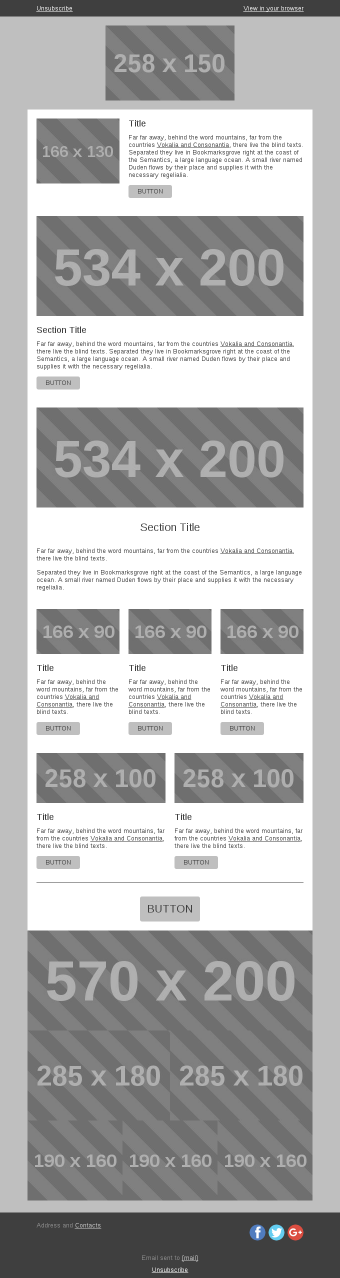
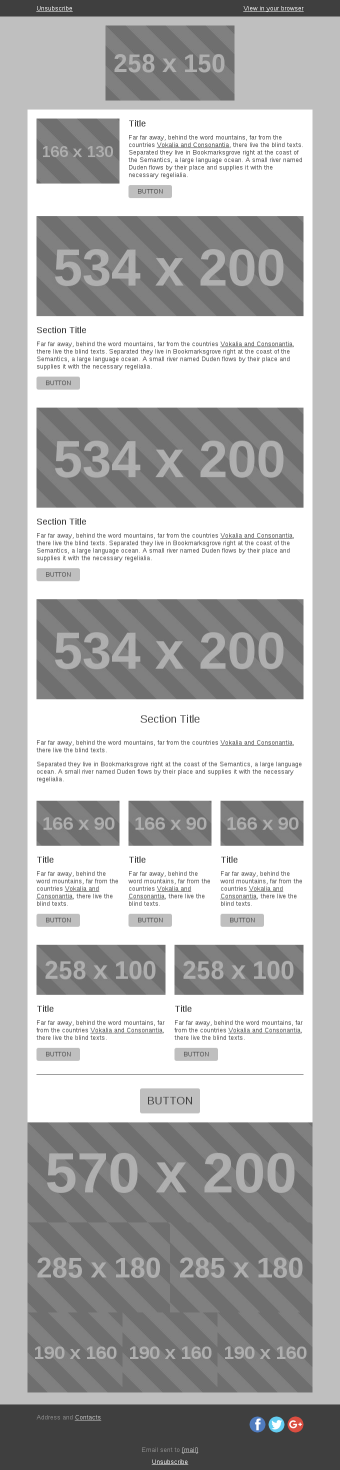
added template changes

diff --git a/templates/beyond/template-beyond.html b/templates/beyond/template-beyond.html
@@ -148,7 +148,7 @@
 
       textBlock { label: Text Block; properties: backgroundColor longTextStyle longText; theme: contentTheme}
 
-      singleArticleBlock { label: Image/Text Block; properties: backgroundColor textVisible=true titleVisible=true buttonVisible=true imageVisible=true titleTextStyle longTextStyle buttonStyle  image  longText buttonLink;theme: contentTheme}
+      singleArticleBlock { label: Image/Text Block; properties: backgroundColor gutterVisible=true textVisible=true titleVisible=true buttonVisible=true imageVisible=true titleTextStyle longTextStyle buttonStyle  image  longText buttonLink;theme: contentTheme}
 
       /*singleImageBlock imageSize { label: Image Size; widget: select; options: 166=Small|258=Medium|350=Big; variant:imageSize;} *imageSize=166; variant: imageSize*/
       singleImageBlock { label: Image Block;  properties:  backgroundColor image ;theme: contentTheme}
@@ -634,7 +634,61 @@
 
 <!--[if (gte mso 9)|(lte ie 8)]><table align="center" border="0" cellspacing="0" cellpadding="0" width="570"><tr><td align="center" valign="top"><![endif]-->
         <div class="oldwebkit">
-        <table width="570" border="0" cellpadding="0" cellspacing="18" class="vb-container fullpad" bgcolor="#ffffff"
+        <table data-ko-display="gutterVisible eq false" width="570" border="0" cellpadding="0" cellspacing="18" class="vb-container fullpad" bgcolor="transparent"
+          style="width: 100%; max-width: 570px; background-color: transparent; ">
+          <tr data-ko-display="imageVisible">
+            <td width="100%" valign="top" align="left" class="links-color">
+              <a data-ko-link="image.url" href="">
+                <img data-ko-editable="image.src" border="0" hspace="0" vspace="0" width="534" data-ko-placeholder-height="200"
+                  src="http://mosaico.io/srv/f-default/img?method=placeholder&amp;params=534%2C200" class="mobile-full"
+                  alt="" style="vertical-align:top; max-width:534px; width: 100%; height: auto;
+                  -ko-attr-alt: @image.alt" />
+              </a>
+            </td>
+          </tr>
+          <tr><td><table align="left" border="0" cellpadding="0" cellspacing="0" width="100%">
+            <tr data-ko-display="titleVisible">
+              <td style="font-size: 18px; font-family: Arial, Helvetica, sans-serif; color: #3f3f3f; text-align:left;
+                -ko-font-size: @[titleTextStyle.size]px; -ko-font-family: @titleTextStyle.face; -ko-color: @titleTextStyle.color">
+                <span style="color: #3f3f3f; -ko-color: @titleTextStyle.color" data-ko-editable="text">
+               Section Title
+                </span>
+              </td>
+            </tr>
+            <tr data-ko-display="titleVisible">
+              <td height="9" style="font-size:1px; line-height: 1px;">&nbsp;</td>
+            </tr>
+            <tr data-ko-display="textVisible">
+              <td align="left" style="text-align: left; font-size: 13px; font-family: Arial, Helvetica, sans-serif; color: #3f3f3f;
+                -ko-font-size: @[longTextStyle.size]px; -ko-font-family: @longTextStyle.face; -ko-color: @longTextStyle.color"
+                data-ko-editable="longText" class="long-text links-color">
+                <p>Far far away, behind the word mountains, far from the countries <a href="">Vokalia and Consonantia</a>, there live the blind texts. Separated they live in Bookmarksgrove right at the coast of the Semantics, a large language ocean. A small river named Duden flows by their place and supplies it with the necessary regelialia.</p>
+              </td>
+            </tr>
+            <tr data-ko-display="buttonVisible">
+              <td height="13" style="font-size:1px; line-height: 1px;">&nbsp;</td>
+            </tr>
+            <tr data-ko-display="buttonVisible">
+              <td valign="top">
+                <table cellpadding="0" border="0" align="left" cellspacing="0" class="mobile-full">
+                  <tr>
+                    <td width="auto" valign="middle" bgcolor="#bfbfbf" align="center" height="26"
+                      style="font-size: 13px; font-family: Arial, Helvetica, sans-serif; text-align:center; color: #3f3f3f; font-weight: normal;
+                      padding-left: 18px; padding-right: 18px; background-color: #bfbfbf; border-radius: 4px;
+                      -ko-border-radius: @[buttonStyle.radius]px;
+                      -ko-attr-bgcolor: @buttonStyle.buttonColor; -ko-background-color: @buttonStyle.buttonColor;
+                      -ko-font-size: @[buttonStyle.size]px; -ko-font-family: @buttonStyle.face; -ko-color: @buttonStyle.color; ">
+                      <a data-ko-editable="buttonLink.text" href="" style="text-decoration: none; color: #3f3f3f; font-weight: normal;
+                        -ko-color: @buttonStyle.color; -ko-attr-href: @buttonLink.url">BUTTON</a>
+                    </td>
+                  </tr>
+                </table>
+              </td>
+            </tr>
+          </table></td></tr>
+        </table>
+
+        <table data-ko-display="gutterVisible" width="570" border="0" cellpadding="0" cellspacing="18" class="vb-container fullpad" bgcolor="#ffffff"
           style="width: 100%; max-width: 570px; background-color: #ffffff; -ko-attr-bgcolor: @backgroundColor; -ko-background-color: @backgroundColor;">
           <tr data-ko-display="imageVisible">
             <td width="100%" valign="top" align="left" class="links-color">
@@ -687,6 +741,8 @@
             </tr>
           </table></td></tr>
         </table>
+
+
         </div>
 <!--[if (gte mso 9)|(lte ie 8)]></td></tr></table><![endif]-->
       </td>
